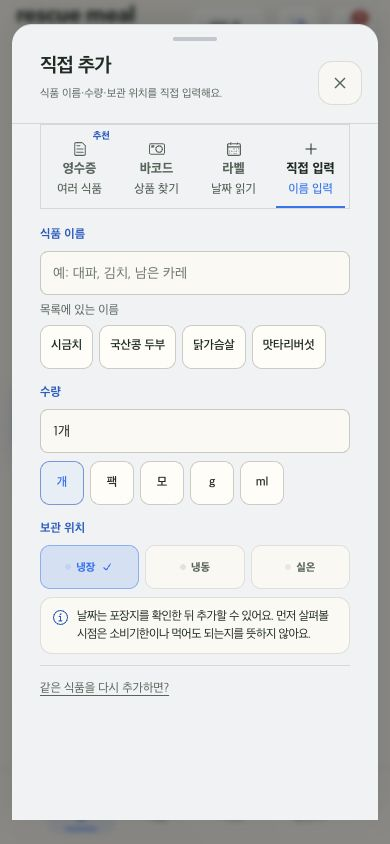
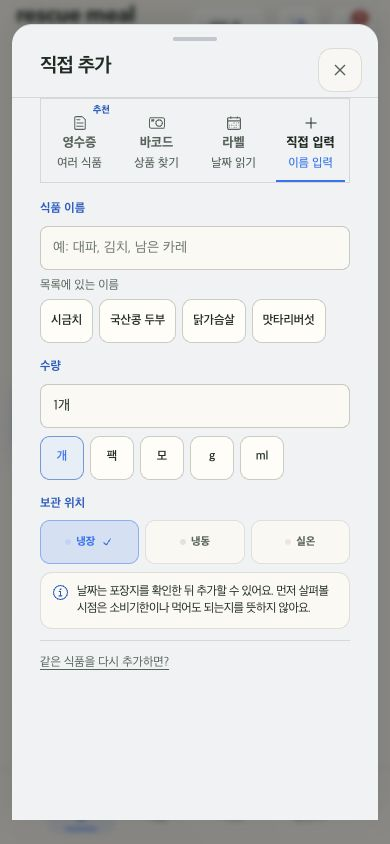
Refine food guidance and simplify manual entry copy

diff --git a/apps/web/src/Prototype.tsx b/apps/web/src/Prototype.tsx
@@ -5409,7 +5409,7 @@ function PrototypeContent() {
               </div>
               <label className="inventory-search">
                 <MagnifyingGlassIcon width={15} height={15} aria-hidden="true" />
-                <KeyboardInput className="inventory-search-input" type="search" value={inventoryQuery} placeholder="식품·브랜드·카테고리 검색" aria-label="식품·브랜드·카테고리 검색" onChange={(event) => setInventoryQuery(event.target.value)} onFocus={() => { inventorySearchFocusRef.current = true; window.requestAnimationFrame(keepInventorySearchVisible); }} onBlur={() => { inventorySearchFocusRef.current = false; keyboard.hide(); }} />
+                <KeyboardInput className="inventory-search-input" type="search" value={inventoryQuery} placeholder="식품 검색" aria-label="식품·브랜드·카테고리 검색" onChange={(event) => setInventoryQuery(event.target.value)} onFocus={() => { inventorySearchFocusRef.current = true; window.requestAnimationFrame(keepInventorySearchVisible); }} onBlur={() => { inventorySearchFocusRef.current = false; keyboard.hide(); }} />
                 {hasInventoryQuery ? <button type="button" aria-label="식품 검색어 지우기" onPointerDown={(event) => event.preventDefault()} onClick={clearInventorySearch}><Cross2Icon width={14} height={14} /></button> : null}
               </label>
               <div className="inventory-status-filters" role="group" aria-label={`식품 상태 필터${inventoryScopeIsStale ? " · 이전 결과" : ""}`} data-scope-state={inventoryScopeIsStale ? "stale" : inventorySearchPending ? "loading" : "current"} aria-busy={inventorySearchPending}>
@@ -5532,7 +5532,7 @@ function PrototypeContent() {
                 ? "영수증에서 읽은 상품과 수량을 살펴본 뒤 식품 목록에 추가해요."
                 : addMode === "barcode"
                   ? "바코드로 상품을 찾고, 맞는 상품인지 살펴봐요."
-                  : "식품 이름·수량·보관 위치를 직접 입력해요."}
+                  : undefined}
         snap={addReturnFoodContextRef.current ? 0.9 : 0.84}
       >
         <AddFoodSheet mode={addMode} onModeChange={setAddMode} onAddManual={addManualFood} onAddReceipt={addReceiptFoods} resumeReceiptId={resumeReceiptId} initialLabelTargetFoodId={addReturnFoodContextRef.current?.id ?? null} initialLabelTargetFoodName={addReturnFoodContextRef.current?.name ?? null} initialLabelTargetDateSummary={addReturnFoodContextRef.current?.dateSummary ?? null} sessionKey={addSheetSessionKey} receiptLines={RECEIPT_LINES} existingFoods={foods} storageLocations={storageLocations} createFood={createFood} formatApiDate={formatApiDate} storageFromApi={storageFromApi} imageForFoodName={imageForFoodName} formatReceiptLineDetail={formatReceiptLineDetail} receiptLineError={receiptLineError} reviewFixture={receiptSourceReviewMode ? receiptSourceUnmappedMode ? RECEIPT_SOURCE_UNMAPPED_FIXTURE : RECEIPT_SOURCE_REVIEW_FIXTURE : undefined} />

diff --git a/apps/web/src/FoodDetailSheet.tsx b/apps/web/src/FoodDetailSheet.tsx
@@ -504,7 +504,7 @@ export default function FoodDetailSheet({
           <span className="date-review-icon"><InfoCircledIcon width={16} height={16} /></span>
           <span>
             <strong>{dateReviewReason === "날짜 의미 확인" ? "포장지 날짜 종류를 골라 주세요" : dateReviewReason === "포장지 날짜 확인" ? "포장지 날짜를 확인해 주세요" : "조리 전 확인이 필요해요"}</strong>
-    <small>{dateReviewReason === "날짜 의미 확인" ? "포장일·제조일은 소비기한이 아니에요. 이 날짜를 소비기한으로 바꾸지 않고, 소비기한이 적힌 면과 보관 방법을 따로 살펴봐 주세요." : dateReviewReason === "포장지 날짜 확인" ? "포장지 날짜를 기록하지 않았어요. 포장지와 보관 방법을 살펴본 뒤 조리해 주세요." : "표시 날짜가 오늘이거나 지났어요. 보관·개봉 상태도 확인해 주세요."}</small>
+    <small>{dateReviewReason === "날짜 의미 확인" ? "포장일과 제조일은 소비기한이 아니에요. 이 날짜를 소비기한으로 바꾸지 않고, 소비기한이 적힌 면과 보관 방법을 따로 살펴봐 주세요." : dateReviewReason === "포장지 날짜 확인" ? "포장지 날짜를 기록하지 않았어요. 포장지와 보관 방법을 살펴본 뒤 조리해 주세요." : "표시 날짜가 오늘이거나 지났어요. 보관 방법과 개봉 상태도 확인해 주세요."}</small>
             {canRecheckPrintedLabel && dateReviewReason === "날짜 의미 확인" ? <button ref={dateReviewActionRef} className="date-edit-button" type="button" onClick={onOpenLabelReview}><CalendarIcon width={15} height={15} /><span><strong>포장지에서 소비기한 다시 확인</strong><small>날짜를 새 식품 기록에 저장하거나 기존 식품 기록을 수정할지 선택해요.</small></span><ArrowRightIcon width={15} height={15} /></button> : null}
           </span>
           {compactPrintedDateRecheck ? <button ref={dateReviewActionRef} className="date-edit-button date-edit-button-compact" type="button" aria-label="포장지에서 날짜 다시 확인" title="포장지에서 날짜 다시 확인" onClick={() => onOpenLabelReview?.()}><CalendarIcon width={17} height={17} /><span>날짜 다시 확인</span></button> : null}
